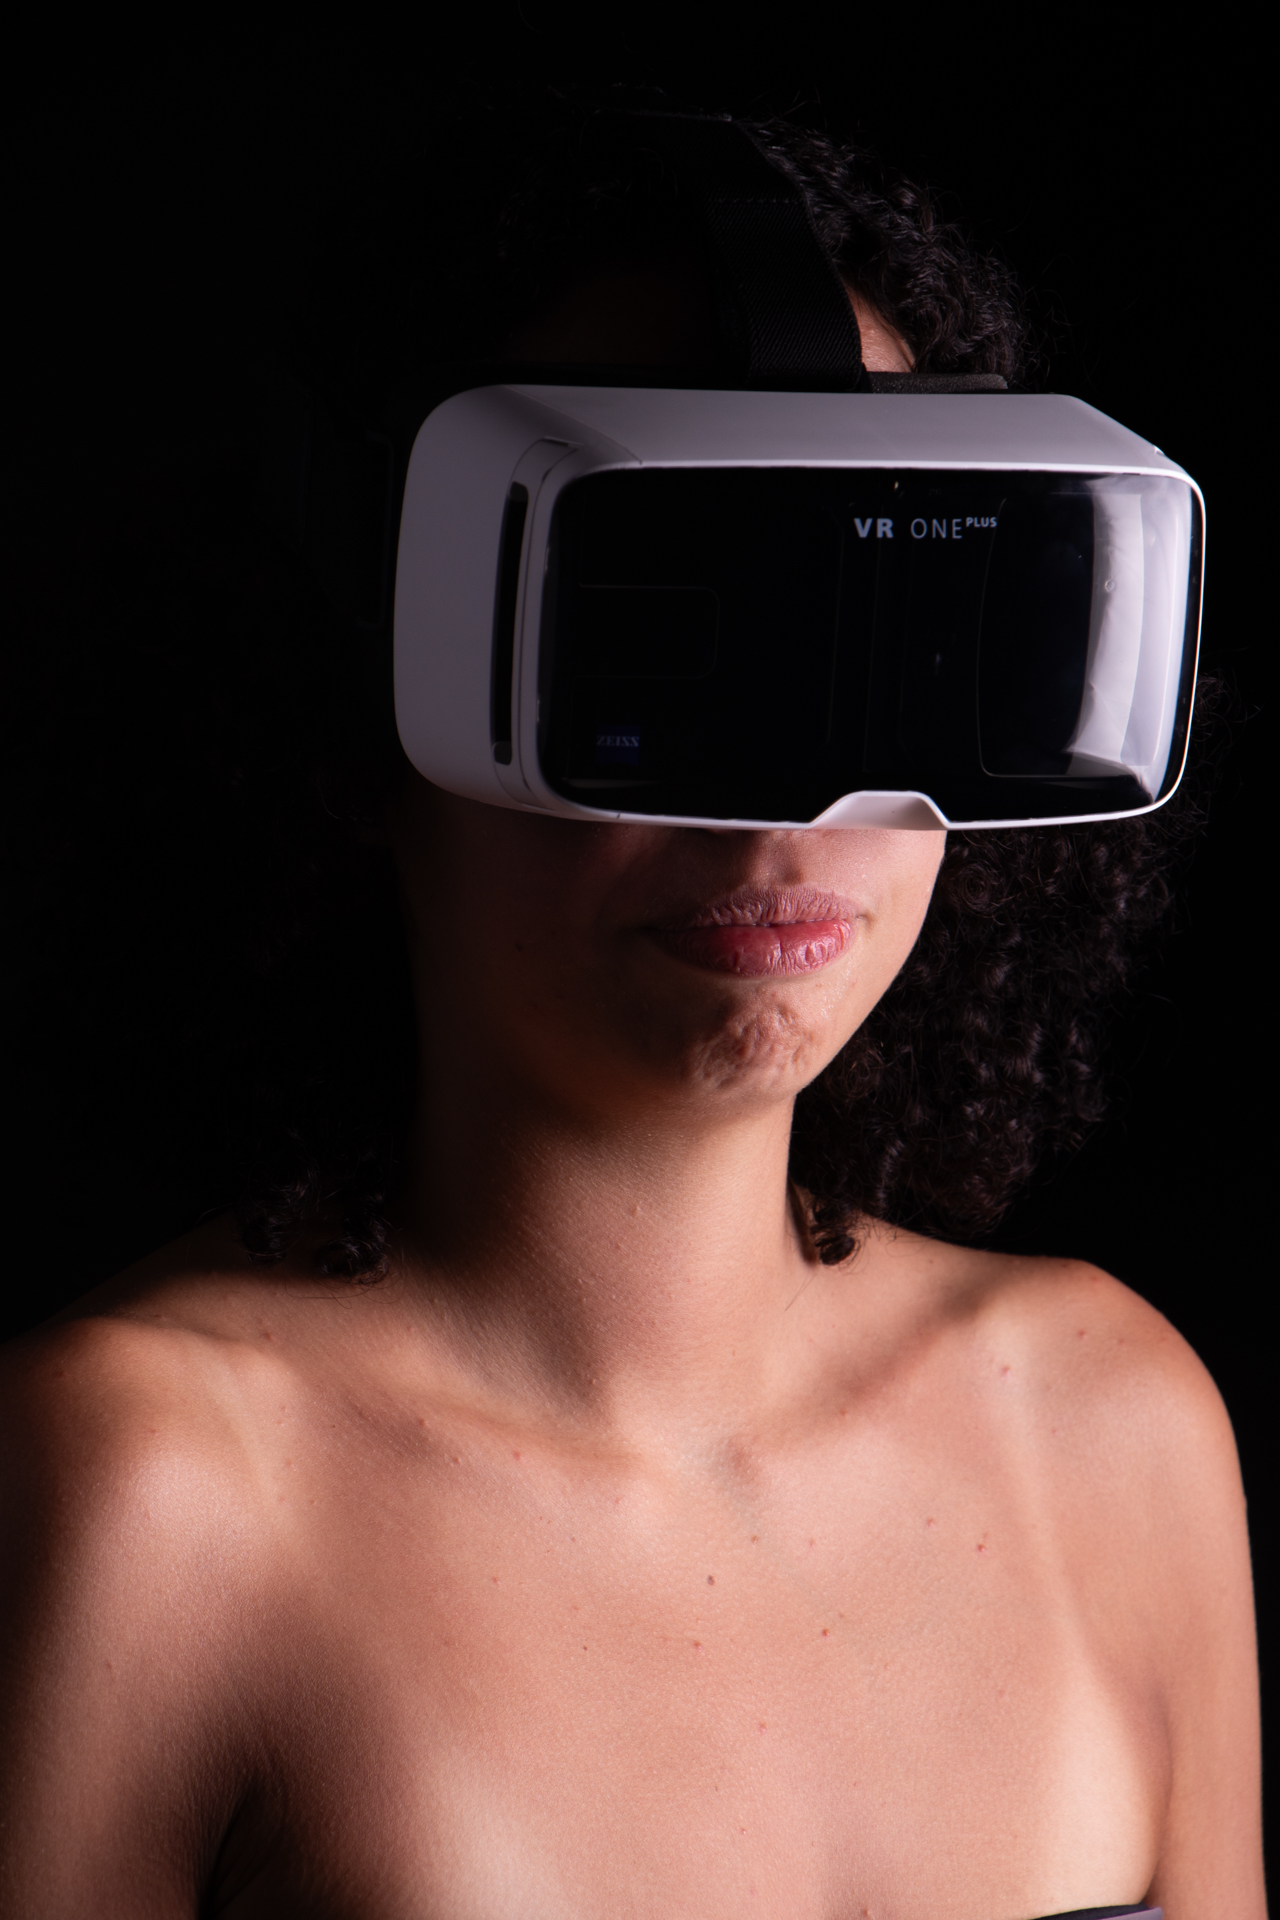
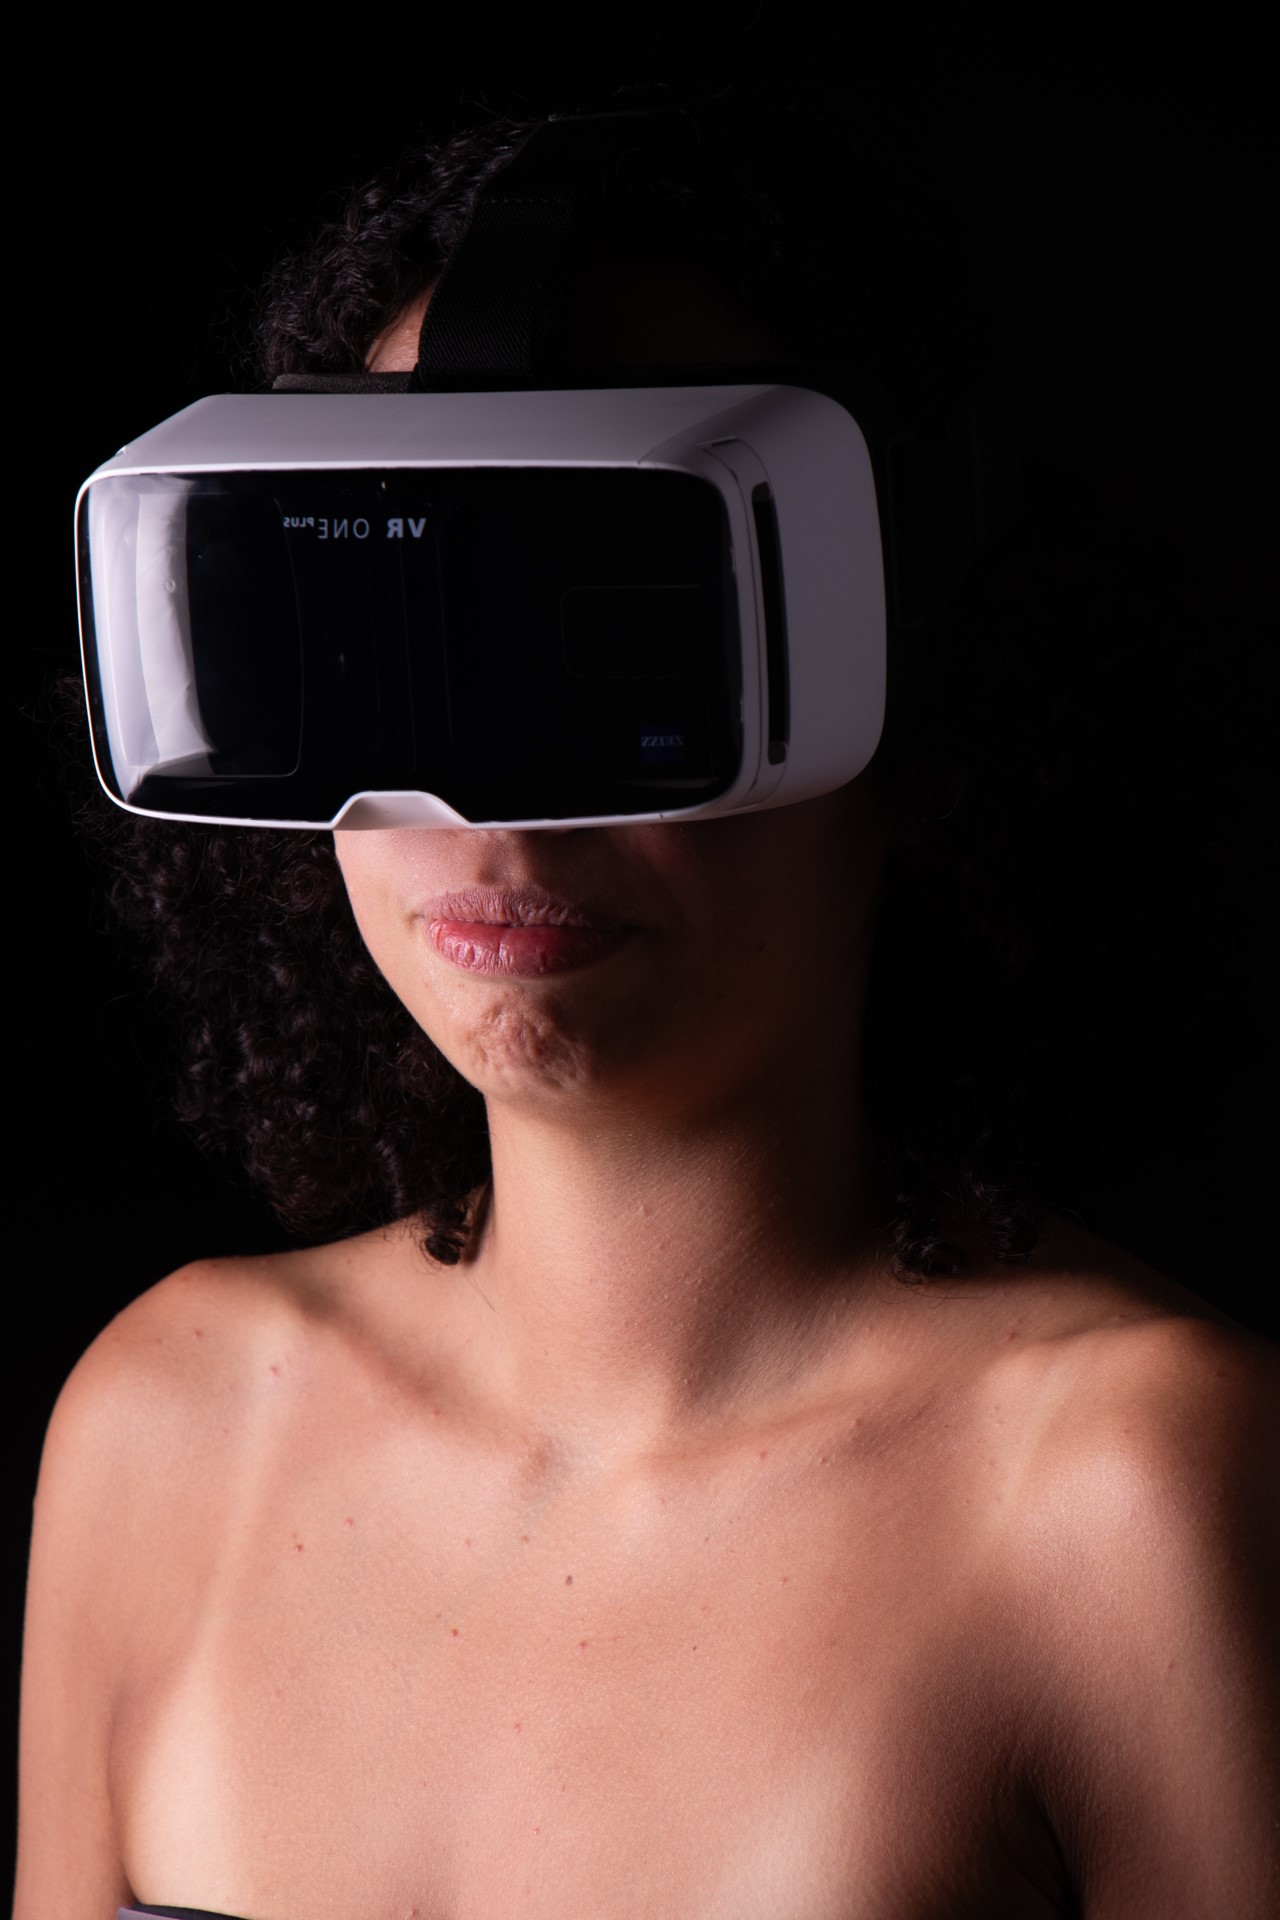
Ajustes de sombra

diff --git a/index.html b/index.html
@@ -76,8 +76,8 @@
             <h2>Inovação</h2>
             <div>
                 <img src="img/fotos/boia-2.jpg">
-                <img src="img/fotos/apr-1.jpg" class="invert">
-                <img src="img/fotos/boia-1.jpg" class="invert">
+                <img src="img/fotos/apr-1.jpg">
+                <img src="img/fotos/boia-1.jpg">
             </div>
         </section>
         <section class="secao-fotos">
@@ -85,7 +85,7 @@
             <div>
                 <img src="img/fotos/bike-7.jpg">
                 <img src="img/fotos/bike-9.jpg">
-                <img src="img/fotos/bike-6.jpg" class="invert">
+                <img src="img/fotos/bike-6.jpg">
             </div>
         </section>
         <section class="secao-fotos end">

diff --git a/style.css b/style.css
@@ -240,10 +240,6 @@ main h2 {
     font-size: 30px;
 }
 
-.invert {
-    transform: scaleX(-1);
-}
-
 footer {
     background-color: var(--cor1);
     color: var(--cor2);
